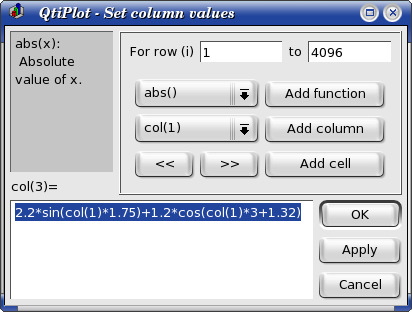
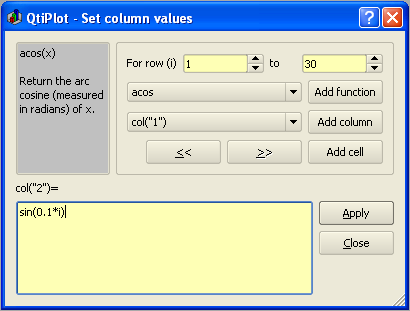
Fixed bug #12009 and implemented Feature Request #3739.

diff --git a/trunk/qtiplot/src/SetColValuesDialog.cpp b/trunk/qtiplot/src/SetColValuesDialog.cpp
@@ -117,12 +117,9 @@ SetColValuesDialog::SetColValuesDialog( ScriptingEnv *env, QWidget* parent, Qt::
 	commands = new ScriptEdit( scriptEnv);
 
 	QVBoxLayout *vbox2 = new QVBoxLayout();
-	btnOk = new QPushButton(tr( "&OK" ));
-	vbox2->addWidget(btnOk);
 	btnApply = new QPushButton(tr( "&Apply" ));
-
 	vbox2->addWidget(btnApply);
-	btnCancel = new QPushButton(tr( "Cancel" ));
+	btnCancel = new QPushButton(tr( "&Close" ));
 	vbox2->addWidget(btnCancel);
 	vbox2->addStretch();
 
@@ -147,7 +144,6 @@ SetColValuesDialog::SetColValuesDialog( ScriptingEnv *env, QWidget* parent, Qt::
 	connect(btnAddFunction, SIGNAL(clicked()),this, SLOT(insertFunction()));
 	connect(btnAddCol, SIGNAL(clicked()),this, SLOT(insertCol()));
 	connect(addCellButton, SIGNAL(clicked()),this, SLOT(insertCell()));
-	connect(btnOk, SIGNAL(clicked()),this, SLOT(accept()));
 	connect(btnApply, SIGNAL(clicked()),this, SLOT(apply()));
 	connect(btnCancel, SIGNAL(clicked()),this, SLOT(close()));
 	connect(functions, SIGNAL(activated(int)),this, SLOT(insertExplain(int)));
@@ -169,12 +165,15 @@ void SetColValuesDialog::nextColumn()
 
 void SetColValuesDialog::updateColumn(int sc)
 {
-	if (!sc)
+    if (sc < 0 || sc > table->numCols() - 1)
+        return;
+
+	if (sc == 0)
 		buttonPrev->setEnabled(false);
 	else
 		buttonPrev->setEnabled(true);
 
-	if (sc >= table->numCols() - 1)
+	if (sc == table->numCols() - 1)
 		buttonNext->setEnabled(false);
 	else
 		buttonNext->setEnabled(true);
@@ -201,22 +200,19 @@ void SetColValuesDialog::customEvent(QEvent *e)
 		scriptingChangeEvent((ScriptingChangeEvent*)e);
 }
 
-void SetColValuesDialog::accept()
-{
-	if (apply())
-		close();
-}
-
 bool SetColValuesDialog::apply()
 {
 	int col = table->selectedColumn();
+    if (col < 0 || col > table->numCols() - 1)
+        return false;
+
 	QString formula = commands->text();
 	QString oldFormula = table->getCommands()[col];
 
 	table->setCommand(col,formula);
-	if(table->calculate(col,start->value()-1,end->value()-1))
+	if(table->calculate(col, start->value()-1, end->value()-1))
 		return true;
-	table->setCommand(col,oldFormula);
+	table->setCommand(col, oldFormula);
 	return false;
 }
 
@@ -248,31 +244,24 @@ void SetColValuesDialog::insertCell()
 
 void SetColValuesDialog::setTable(Table* w)
 {
-	table=w;
-	QStringList colNames=w->colNames();
+	table = w;
+	QStringList colNames = w->colNames();
 	int cols = w->numCols();
 	for (int i=0; i<cols; i++)
-		boxColumn->insertItem("col(\""+colNames[i]+"\")",i);
+		boxColumn->insertItem("col(\""+colNames[i]+"\")", i);
 
 	int s = w->table()->currentSelection();
-	if (s >= 0)
-	{
+	if (s >= 0) {
 		Q3TableSelection sel = w->table()->selection(s);
 		w->setSelectedCol(sel.leftCol());
 
 		start->setValue(sel.topRow() + 1);
 		end->setValue(sel.bottomRow() + 1);
-	}
-	else
-	{
+	} else {
 		start->setValue(1);
 		end->setValue(w->numRows());
 	}
 
 	updateColumn(w->selectedColumn());
 	commands->setContext(w);
-}
-
-SetColValuesDialog::~SetColValuesDialog()
-{
 }

diff --git a/trunk/qtiplot/src/ApplicationWindow.cpp b/trunk/qtiplot/src/ApplicationWindow.cpp
@@ -265,7 +265,7 @@ void ApplicationWindow::init(bool factorySettings)
 		readSettings();
 	createLanguagesList();
 	insertTranslatedStrings();
-		
+
 	assistant = new QAssistantClient( QString(), this );
 
 	actionNextWindow = new QAction(QIcon(QPixmap(next_xpm)), tr("&Next","next window"), this);
@@ -313,19 +313,19 @@ void ApplicationWindow::initWindow()
 	switch(d_init_window_type){
 		case TableWindow:
 			newTable();
-		break;	
+		break;
 		case MatrixWindow:
 			newMatrix();
-		break;	
+		break;
 		case MultiLayerWindow:
 			newGraph();
-		break;	
+		break;
 		case NoteWindow:
 			newNote();
-		break;	
+		break;
 		default:
-			break;				
-	}	
+			break;
+	}
 }
 
 void ApplicationWindow::initGlobalConstants()
@@ -1523,11 +1523,6 @@ void ApplicationWindow::plotPie()
 				tr("You must select exactly one column for plotting!"));
 		return;
 	}
-	/*if (table->noXColumn()){
-		QMessageBox::critical(0,tr("QtiPlot - Error"),
-            tr("Please set a default X column for this table, first!"));
-		return;
-	}*/
 
 	QStringList s = table->selectedColumns();
 	if (s.count()>0){
@@ -2549,7 +2544,9 @@ Table* ApplicationWindow::newTable(const QString& fname, const QString &sep,
 			simplifySpaces, importComments, commentString, fname, ws, 0, 0);
 	if (w){
 		w->setAttribute(Qt::WA_DeleteOnClose);
-		initTable(w, generateUniqueName(tr("Table")));
+		QFileInfo fi(fname);
+		QString tableName = fi.baseName().remove(QRegExp("\\s")).replace("_", "-");
+		initTable(w, generateUniqueName(tableName, false));
 		w->show();
 	}
 	return w;
@@ -5508,16 +5505,14 @@ void ApplicationWindow::showColsDialog()
 void ApplicationWindow::showColumnValuesDialog()
 {
 	Table* w = (Table*)ws->activeWindow();
-	if (!w)
-        return;
-	if (!w->isA("Table"))
+	if (!w || !w->inherits("Table"))
         return;
 
-    if (int(w->selectedColumns().count())>0 || !(w->getSelection().isEmpty())){
-			SetColValuesDialog* vd = new SetColValuesDialog(scriptEnv, this);
-			vd->setAttribute(Qt::WA_DeleteOnClose);
-			vd->setTable(w);
-			vd->exec();
+    if (w->selectedColumns().count()>0 || w->table()->currentSelection() >= 0){
+        SetColValuesDialog* vd = new SetColValuesDialog(scriptEnv, this);
+        vd->setAttribute(Qt::WA_DeleteOnClose);
+        vd->setTable(w);
+        vd->exec();
     } else
         QMessageBox::warning(this, tr("QtiPlot - Column selection error"), tr("Please select a column first!"));
 }

diff --git a/trunk/qtiplot/src/Table.cpp b/trunk/qtiplot/src/Table.cpp
@@ -521,8 +521,7 @@ bool Table::calculate(int col, int startRow, int endRow)
 Q3TableSelection Table::getSelection()
 {
 	Q3TableSelection sel;
-	if (d_table->numSelections()==0)
-	{
+	if (d_table->numSelections() == 0){
 		sel.init(d_table->currentRow(), d_table->currentColumn());
 		sel.expandTo(d_table->currentRow(), d_table->currentColumn());
 	} else if (d_table->currentSelection()>0)
@@ -714,8 +713,7 @@ void Table::setColName(int col, const QString& text, bool enumerateRight)
 QStringList Table::selectedColumns()
 {
 	QStringList names;
-	for (int i=0; i<d_table->numCols(); i++)
-	{
+	for (int i=0; i<d_table->numCols(); i++){
 		if(d_table->isColumnSelected (i, true))
 			names << QString(name()) + "_" + col_label[i];
 	}

diff --git a/trunk/qtiplot/src/SetColValuesDialog.h b/trunk/qtiplot/src/SetColValuesDialog.h
@@ -54,7 +54,6 @@ class SetColValuesDialog : public QDialog, public scripted
 
 public:
     SetColValuesDialog( ScriptingEnv *env, QWidget* parent = 0, Qt::WFlags fl = 0 );
-    ~SetColValuesDialog();
 
 	QSize sizeHint() const ;
 	void customEvent( QEvent *e );
@@ -63,7 +62,6 @@ public:
     QComboBox* boxColumn;
     QPushButton* btnAddFunction;
     QPushButton* btnAddCol;
-    QPushButton* btnOk;
     QPushButton* btnCancel;
     QPushButton *buttonPrev;
     QPushButton *buttonNext;
@@ -75,7 +73,6 @@ public:
 	QLabel *colNameLabel;
 
 public slots:
-	void accept();
 	bool apply();
 	void prevColumn();
 	void nextColumn();
